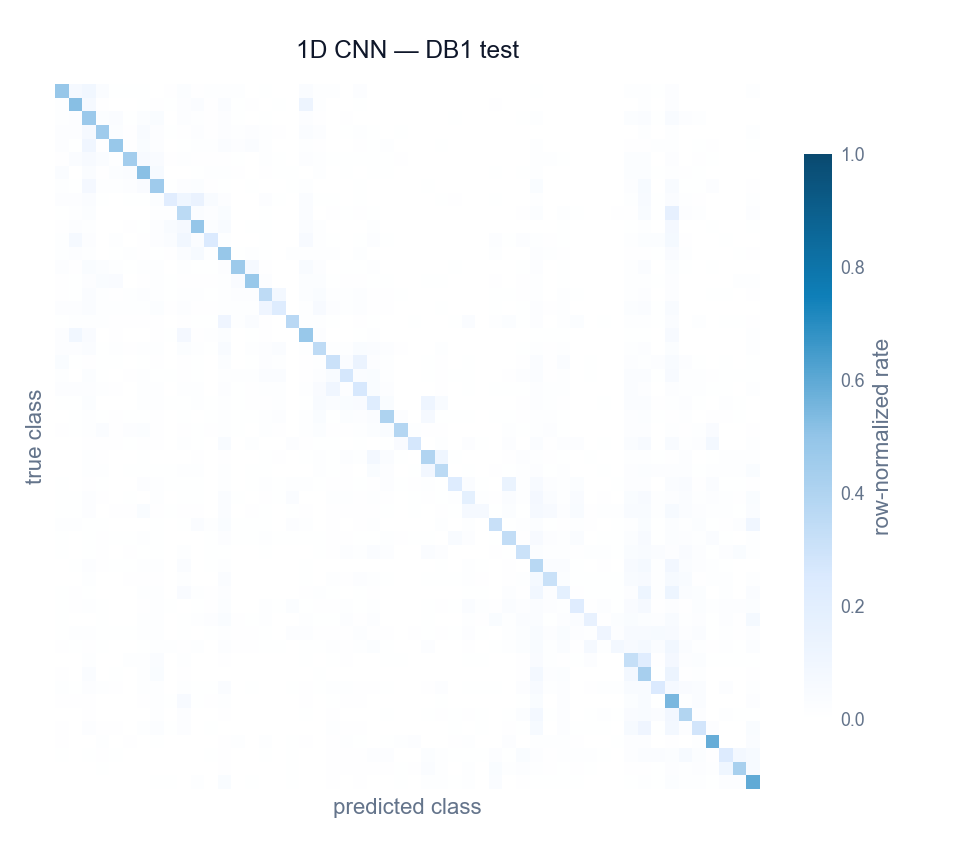
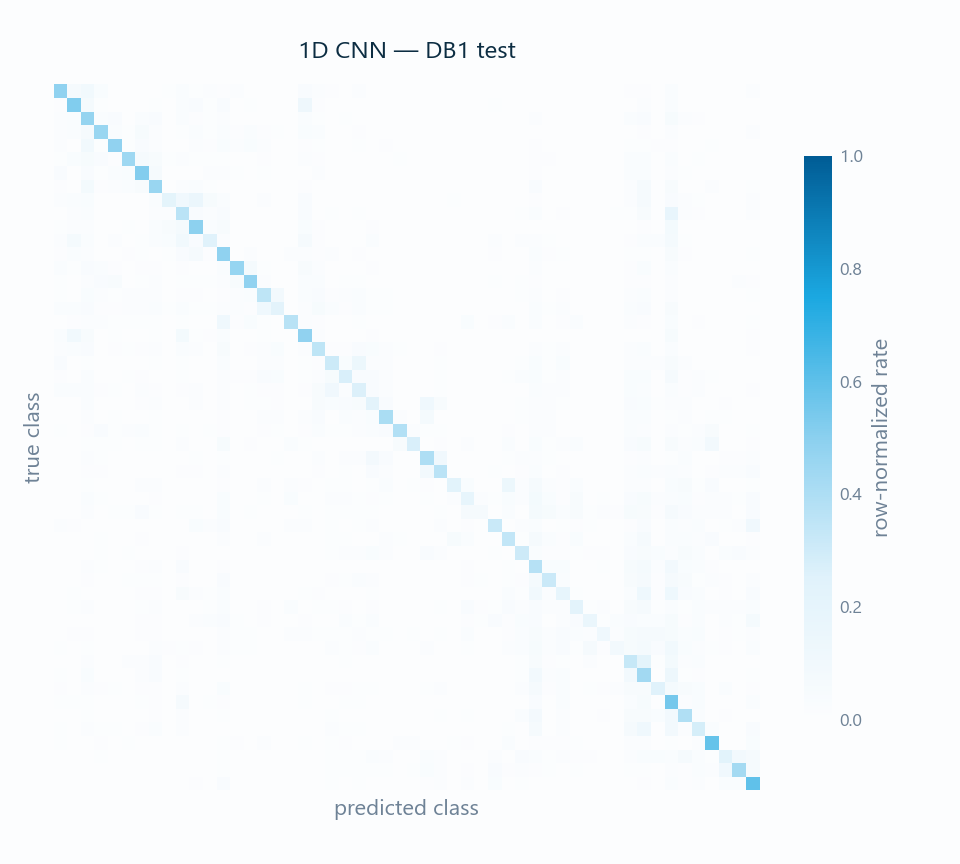
regen figures

diff --git a/scripts/regen_confusion.py b/scripts/regen_confusion.py
@@ -30,19 +30,19 @@ METRICS = ROOT / "results" / "metrics"
 FIGS = ROOT / "results" / "figures"
 
 # Match the Streamlit demo palette.
-PRIMARY = "#0e7fb8"
-TEXT = "#0f172a"
-MUTED = "#64748b"
-BG = "#ffffff"
-BORDER = "#e2e8f0"
+PRIMARY = "#1ba8e1"
+TEXT = "#0c2d42"
+MUTED = "#6e8296"
+BG = "#fcfdfe"
+BORDER = "#dce7ef"
 
 BLUE_CMAP = LinearSegmentedColormap.from_list(
-    "demo_blue", ["#ffffff", "#dbeafe", "#93c5e8", PRIMARY, "#0a4a70"]
+    "demo_blue", ["#fcfdfe", "#e0f2fb", "#8bd0ef", PRIMARY, "#005c95"]
 )
 
 PLOT_STYLE = {
     "font.family": "sans-serif",
-    "font.sans-serif": ["Inter Tight", "Inter", "Helvetica", "Arial", "sans-serif"],
+    "font.sans-serif": ["Plus Jakarta Sans", "Segoe UI", "Arial", "sans-serif"],
     "axes.edgecolor": BORDER,
     "axes.labelcolor": MUTED,
     "axes.titlesize": 11,
